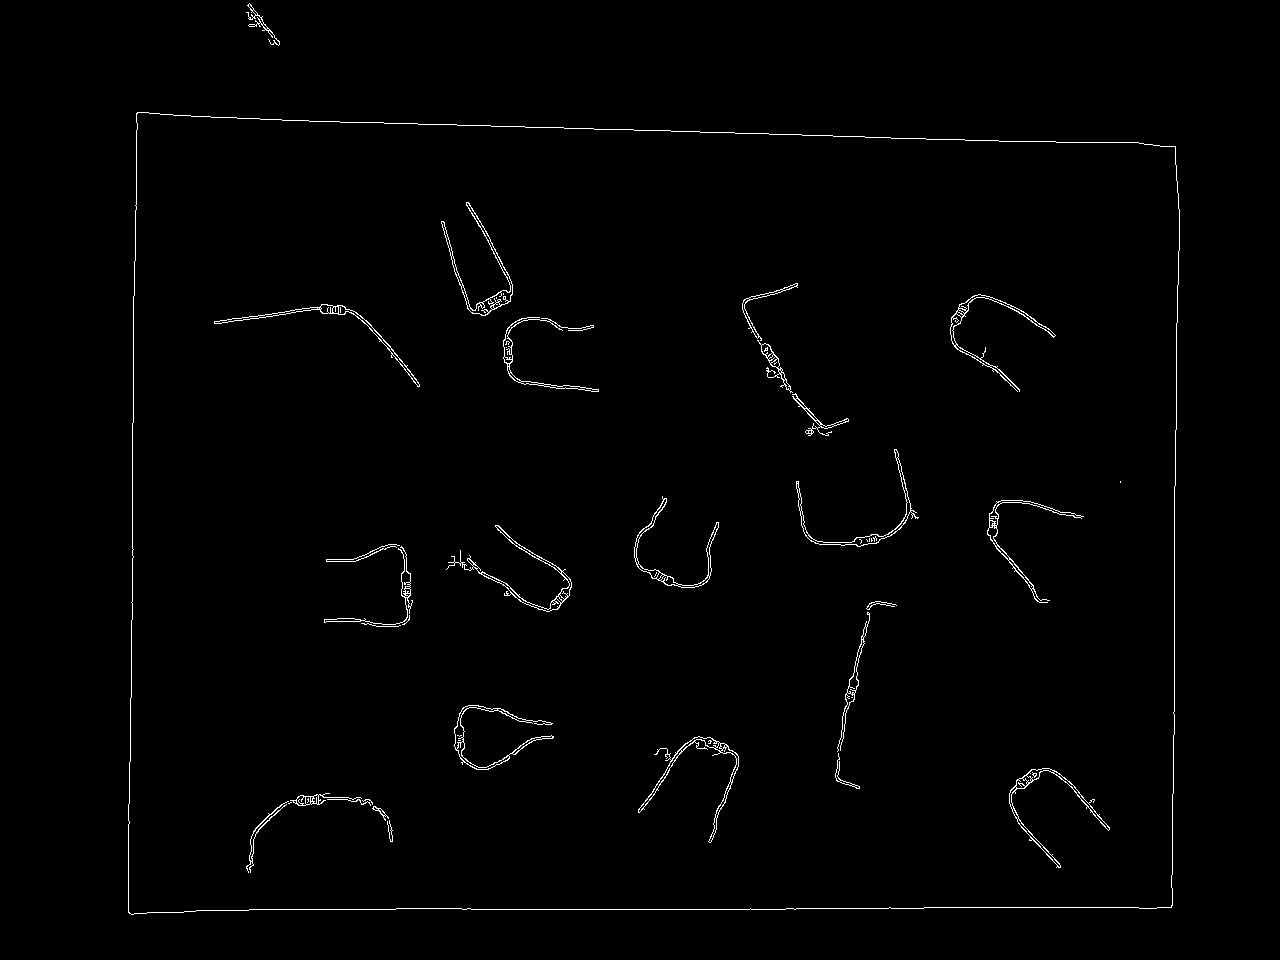
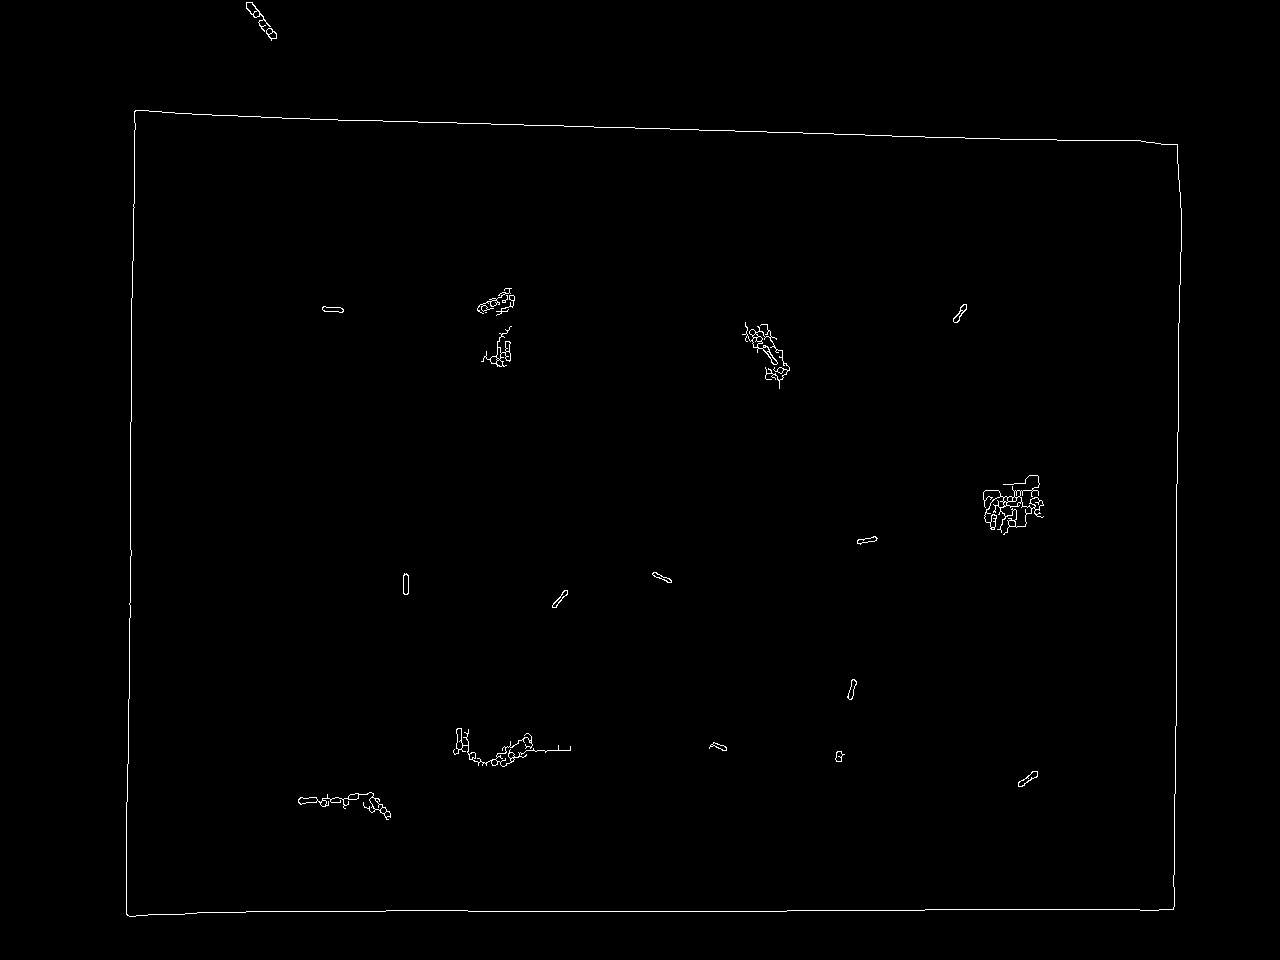
added a test file

diff --git a/test.py b/test.py
@@ -1,8 +1,9 @@
 import cv2 
 import numpy as np 
 import matplotlib.pyplot as plot
+# from clustering import *
 
-image = cv2.imread('img_real.jpg') 
+image = cv2.imread('img_real.jpg')
 image = cv2.resize(image, (0, 0), fx = 0.8, fy = 0.8)
 cv2.waitKey(0) 
 
@@ -22,15 +23,25 @@ gray = cv2.cvtColor(image, cv2.COLOR_BGR2GRAY)
 # mask = np.zeros((h+2, w+2), np.uint8)
 # cv2.floodFill(imFlood, mask, (0,0), 0)
 
-
 # Find Canny edges 
-edged = cv2.Canny(gray, 0, 100) 
+
+kernel = np.array([[5]*5]*5)
+print(kernel)
+gray_dilated = cv2.dilate(gray, kernel)
+edged = cv2.Canny(gray_dilated, 0, 200) 
 cv2.waitKey(0) 
   
 # Finding Contours 
 # Use a copy of the image e.g. edged.copy() 
 # since findContours alters the image 
-contours, hierarchy = cv2.findContours(edged,  cv2.RETR_TREE , cv2.CHAIN_APPROX_SIMPLE) 
+contours, hierarchy = cv2.findContours(edged,  cv2.RETR_LIST , cv2.CHAIN_APPROX_SIMPLE) 
+contours = list(contours)
+
+for i in range(len(contours)-1):
+    rect = cv2.boundingRect(contours[i])
+    print(cv2.contourArea(contours[i]))
+    if  cv2.contourArea(contours[i]) > 1000: del contours[i]
+    
 # print(contours[0])
 # half = cv2.resize(edged, (0, 0), fx = 0.8, fy = 0.8)
 cv2.imwrite("canny.jpg", edged)
@@ -41,7 +52,10 @@ print("Number of Contours found = " + str(len(contours)))
 
 # Draw all contours 
 # -1 signifies drawing all contours 
-cv2.drawContours(image, contours, -1, (0, 255, 0), 2) 
+# cv2.drawContours(image, contours, -1, (0, 255, 0), 2)
+# print("before:",len(contours)) 
+# contours = agglomerative_cluster(contours, 0.0001)
+# print("after:",len(contours))
 
 for c in contours:
     rect = cv2.boundingRect(c)
@@ -53,9 +67,9 @@ for c in contours:
     cv2.rectangle(image,(x,y),(x+w,y+h),(0,255,0),2)
     cv2.putText(image,str((x,y,w,h)),(x+w+10,y+h),0,0.3,(0,255,0))
 
-
 # plot.imshow(image)
 # plot.show()
+image = cv2.resize(image, (0, 0), fx = 0.7, fy = 0.7)
 cv2.imshow('Contours', image)
 cv2.imwrite('actual.jpg', image)
 cv2.waitKey(0) 
